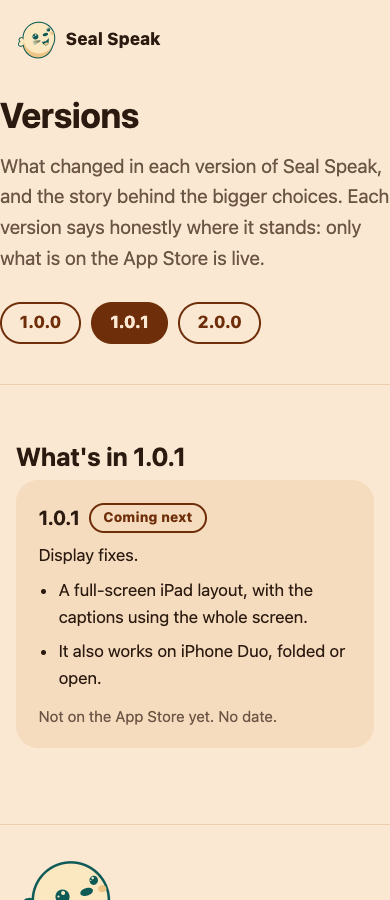
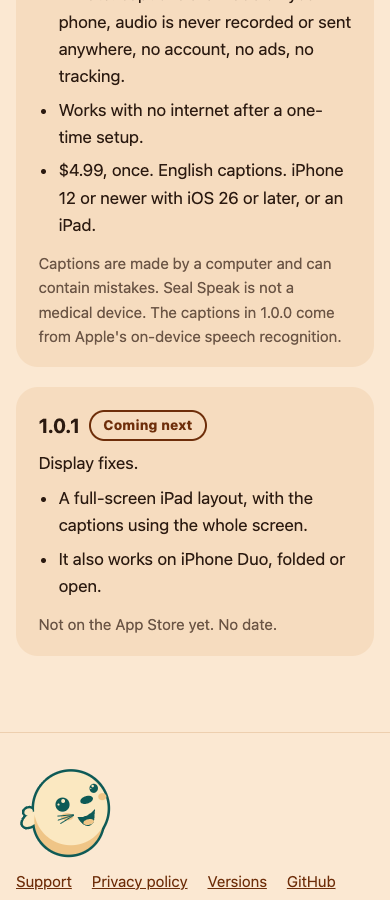
Site: version buttons are 1.0 and 1.1; 1.0.0, 1.0.1 and 1.1.0 sit inside them (#165)
Gil (2026-10-26): the buttons read cleaner as major.minor, with the full three-part versions in their sections.
The new engine, more caption languages and live translation are new features on the same app, so they are 1.1.0,
not 2.0.0. Live translation is an optional add-on, $1.99 once as an in-app purchase; captions in every language stay
part of the app.

Claude-Session: https://claude.ai/code/session_01W1B2gd2TVudhLMGAQoCPnp

diff --git a/site/versions.html b/site/versions.html
@@ -103,6 +103,7 @@
   .version-nav a { font-weight: 800; letter-spacing: .02em; border-radius: 999px; padding: .35rem 1.1rem; border: 2px solid var(--accent); color: var(--accent); text-decoration: none; }
   .version-nav a[aria-current] { background: var(--accent); color: var(--bg); }
   .version[hidden] { display: none; }
+  .version .release + .release, #v1-0-1 { margin-top: 1.25rem; }
 </style>
 </head>
 <body>
@@ -123,17 +124,17 @@
   <div class="wrap page-head">
     <h1>Versions</h1>
     <p class="lede">What changed in each version of Seal Speak, and the story behind the bigger choices. Each version says honestly where it stands: only what is on the App Store is live.</p>
-    <nav class="version-nav" id="releases" aria-label="Choose a version" data-default="v1-0-0">
-      <a href="#v1-0-0">1.0.0</a>
-      <a href="#v1-0-1">1.0.1</a>
-      <a href="#v2-0-0">2.0.0</a>
+    <nav class="version-nav" id="releases" aria-label="Choose a version" data-default="v1-0">
+      <a href="#v1-0">1.0</a>
+      <a href="#v1-1">1.1</a>
     </nav>
   </div>
 
-  <div class="version" id="v1-0-0">
+  <div class="version" id="v1-0">
   <section class="band" aria-labelledby="v10-h">
     <div class="wrap">
-      <h2 id="v10-h">What's in 1.0.0</h2>
+      <h2 id="v10-h">Version 1.0</h2>
+      <div id="v1-0-0">
       <div class="card release">
         <h3>1.0.0 <span class="badge review">In review</span></h3>
         <p>The first version. It is with Apple for review and has not been released yet.</p>
@@ -153,14 +154,8 @@
         </ul>
         <p class="note">Captions are made by a computer and can contain mistakes. Seal Speak is not a medical device. The captions in 1.0.0 come from Apple's on-device speech recognition.</p>
       </div>
-    </div>
-  </section>
-  </div>
-
-  <div class="version" id="v1-0-1">
-  <section class="band" aria-labelledby="v11-h">
-    <div class="wrap">
-      <h2 id="v11-h">What's in 1.0.1</h2>
+      </div>
+      <div id="v1-0-1">
       <div class="card release">
         <h3>1.0.1 <span class="badge">Coming next</span></h3>
         <p>Display fixes.</p>
@@ -170,20 +165,21 @@
         </ul>
         <p class="note">Not on the App Store yet. No date.</p>
       </div>
+      </div>
     </div>
   </section>
   </div>
 
-  <div class="version" id="v2-0-0">
-  <section class="band" aria-labelledby="v200-h">
+  <div class="version" id="v1-1">
+  <section class="band" aria-labelledby="v11-h">
     <div class="wrap">
-      <h2 id="v200-h">What's planned for 2.0.0</h2>
+      <h2 id="v11-h">Version 1.1</h2>
       <div class="card release">
-        <h3>2.0.0 <span class="badge">Planned</span></h3>
+        <h3 id="v1-1-0">1.1.0 <span class="badge">Planned</span></h3>
         <ul>
           <li>A new engine makes the captions: Parakeet Ultra instead of Apple's speech recognition. In our tests it makes fewer mistakes and the words show up sooner. The story is <a href="#engine">below</a>.</li>
           <li>Captions in more languages. Parakeet understands 25 European languages: Bulgarian, Croatian, Czech, Danish, Dutch, English, Estonian, Finnish, French, German, Greek, Hungarian, Italian, Latvian, Lithuanian, Maltese, Polish, Portuguese, Romanian, Russian, Slovak, Slovenian, Spanish, Swedish and Ukrainian. So far we have measured English, Spanish, French and German (<a href="#languages">below</a>), and we test each of the others before switching it on.</li>
-          <li>Live translation of the captions into another language, right on your phone, as an optional in-app purchase. It uses Apple's on-device translation, the most accurate engine we tested (<a href="#translation">below</a>).</li>
+          <li>Live translation of the captions into another language, right on your phone. It is an optional add-on: $1.99, once, as an in-app purchase. Captions in every language stay part of the app. It uses Apple's on-device translation, the most accurate engine we tested (<a href="#translation">below</a>).</li>
           <li>It still works with no internet, and nothing leaves your device.</li>
           <li>The app gets bigger: the new caption model is about 498 MB.</li>
         </ul>
@@ -256,7 +252,7 @@
           <li>It is fast to show words (median 0.25 s), and it runs on the phone with no internet.</li>
         </ul>
         <p><strong>If it does not work out on an iPhone,</strong> the fallback is Parakeet Ultra 4-bit: smaller (350 MB), about a point less accurate, still better than Apple.</p>
-        <p class="note">What we have not shown yet: these tests ran on a Mac with one set of recordings. The next step is checking on an iPhone. Until then, Seal Speak uses Apple's recognition. The switch arrives in 2.0.0. Captions can still contain mistakes with any engine.</p>
+        <p class="note">What we have not shown yet: these tests ran on a Mac with one set of recordings. The next step is checking on an iPhone. Until then, Seal Speak uses Apple's recognition. The switch arrives in 1.1.0. Captions can still contain mistakes with any engine.</p>
       </div>
 
       <p class="intro" style="margin-top:2rem">The full results, including every accent we tested, are in the <a href="https://github.com/G-Eskayo/clarity-captions/blob/feature/145-engine-eval/docs/perf/engine-accuracy-comparison.md">engine accuracy report</a> on GitHub. The research note behind the size test is <a href="https://github.com/G-Eskayo/clarity-captions/blob/feature/145-engine-eval/docs/research/evidence-log.md">evidence log E12</a>.</p>
@@ -282,7 +278,7 @@
         </table>
       </div>
       <div class="prose" style="margin-top:1.5rem">
-        <p>Parakeet made 30 to 40% fewer mistakes in every language, and the ranges do not overlap. That is why 2.0.0 uses it.</p>
+        <p>Parakeet made 30 to 40% fewer mistakes in every language, and the ranges do not overlap. That is why 1.1.0 uses it.</p>
       </div>
       <p class="note src">These recordings are people reading sentences in quiet rooms, not conversations, so every engine scores much better here than in real life. The ranking is the useful part. Measured on a Mac, not an iPhone. Source: <a href="https://github.com/G-Eskayo/clarity-captions/blob/main/docs/perf/language-accuracy-comparison.md">language accuracy report</a> (FLEURS test sets, CC BY 4.0).</p>
     </div>
@@ -309,7 +305,7 @@
         </table>
       </div>
       <div class="prose" style="margin-top:1.5rem">
-        <p>Apple's translation scored highest everywhere, and it lost the least when the punctuation was missing, which is how captions arrive. All three were fast enough for live captions. That is why 2.0.0 uses Apple's translation. We are now checking every other language it supports.</p>
+        <p>Apple's translation scored highest everywhere, and it lost the least when the punctuation was missing, which is how captions arrive. All three were fast enough for live captions. That is why 1.1.0 uses Apple's translation. We are now checking every other language it supports.</p>
       </div>
       <p class="note src">Sentences from FLORES-200 (1,012 per language). Measured on a Mac, not an iPhone. Source: <a href="https://github.com/G-Eskayo/clarity-captions/blob/feature/159-translation-eval/docs/perf/translation-comparison.md">translation comparison report</a>, with every confidence interval and a second scoring method.</p>
     </div>
